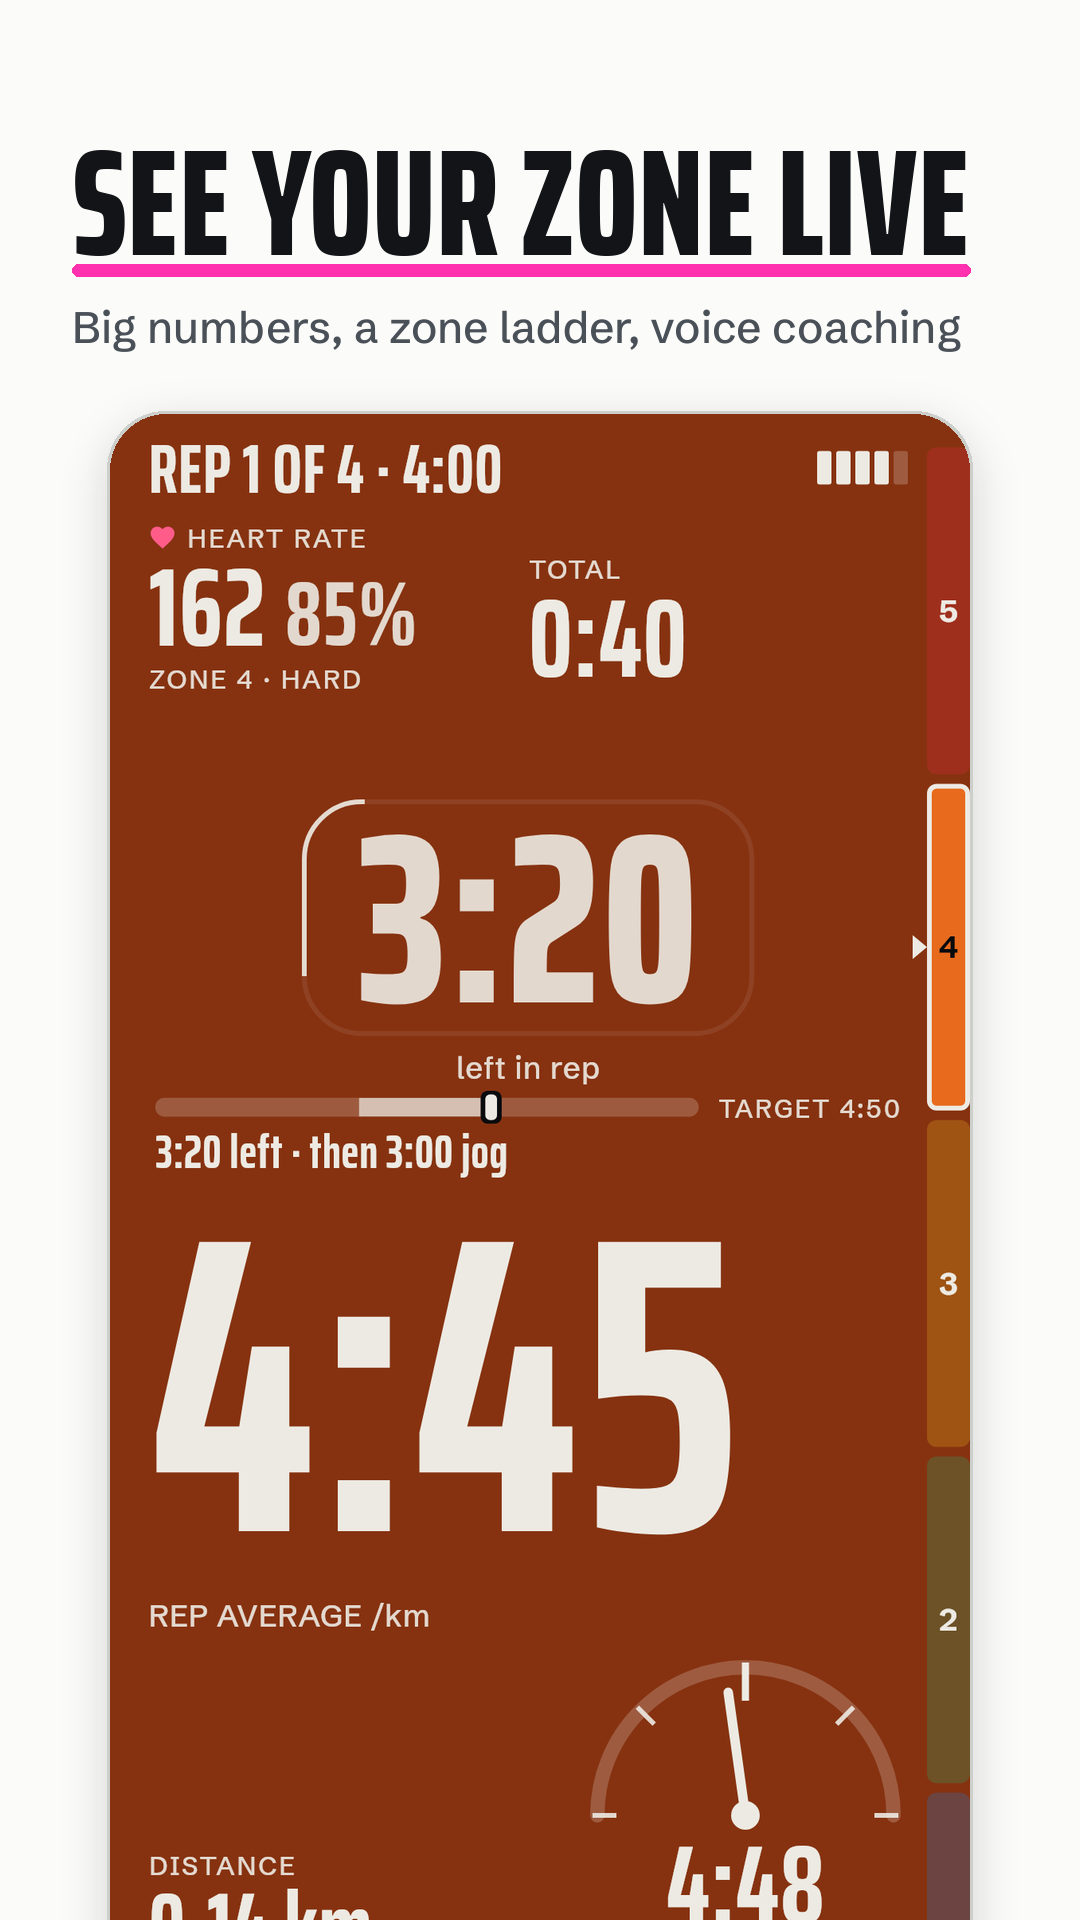
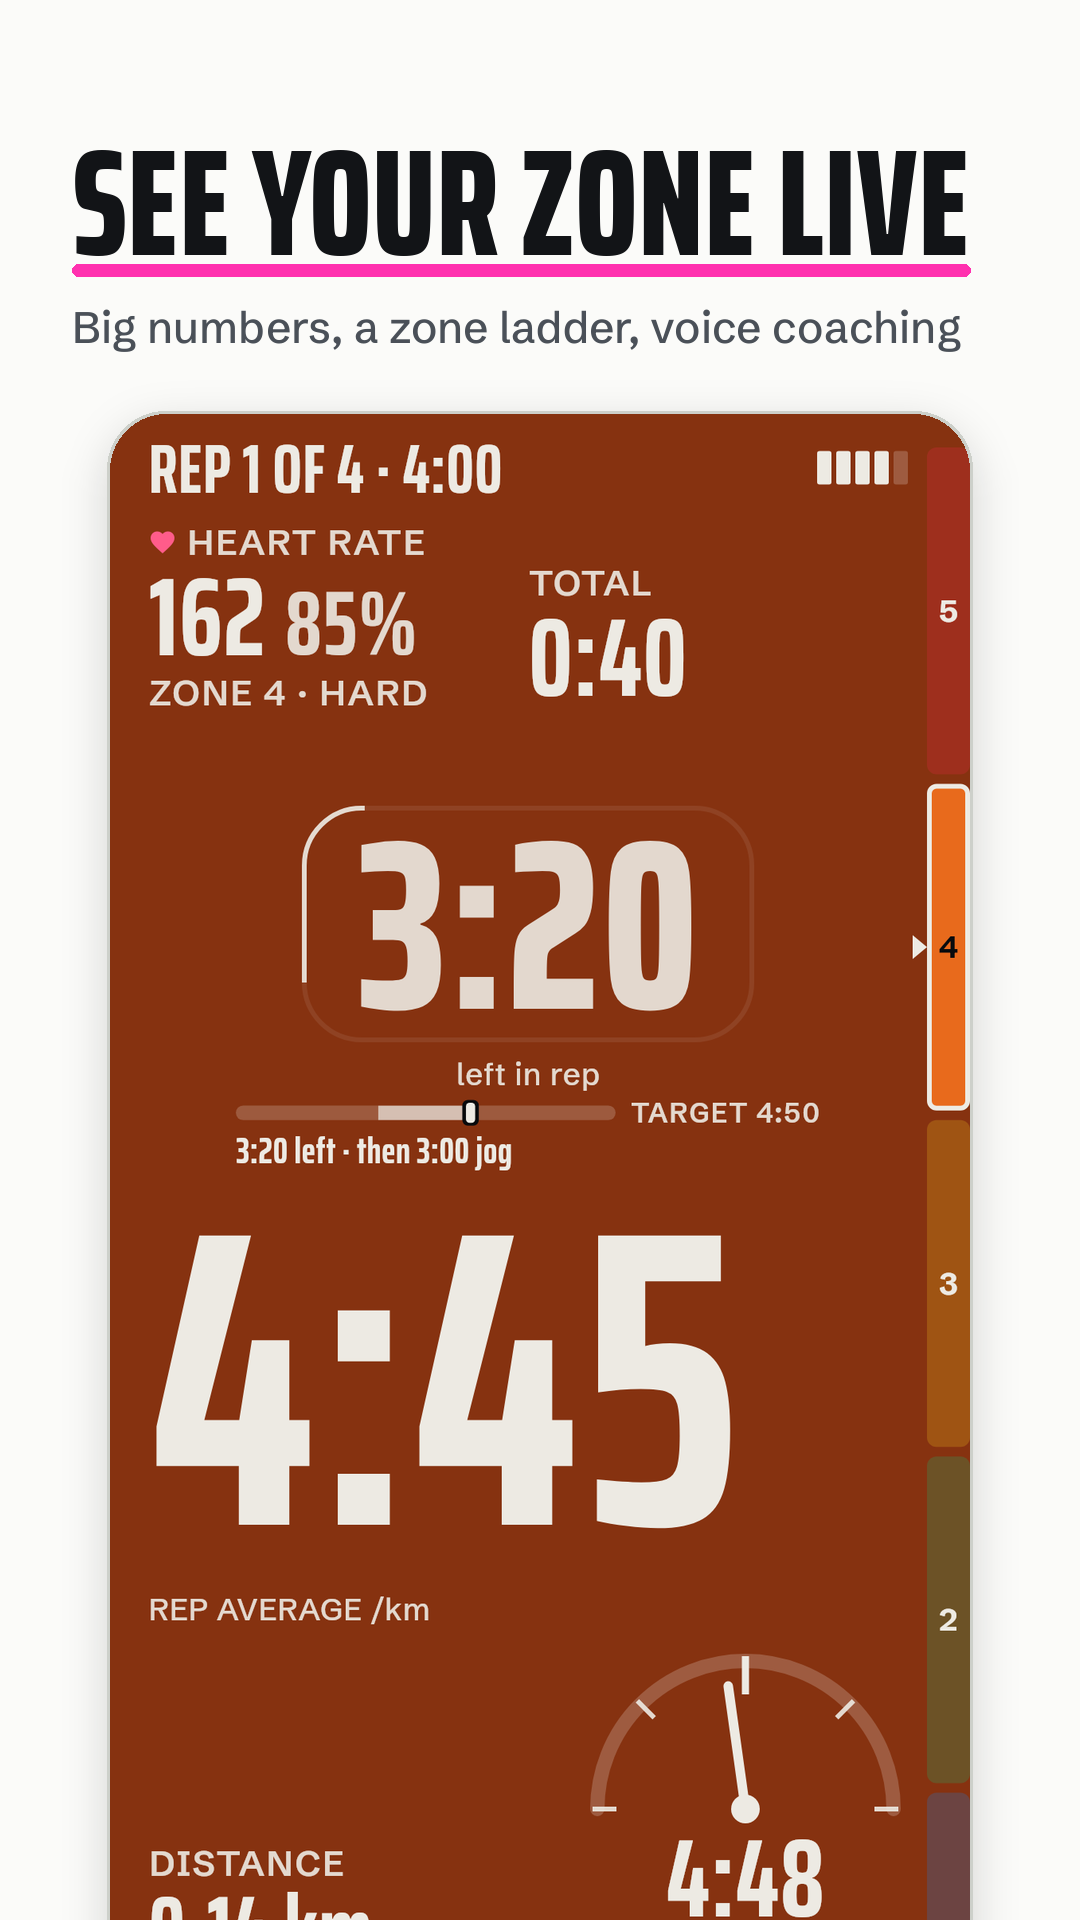
Rebrand: Play flavour applicationId app.runsupreme (dogfood unchanged) (#17)
* Rebrand: Play flavour applicationId app.runsupreme (dogfood keeps app.runsolo.dogfood)

Re-applied onto main as one commit; the one-off fgs-demo job and tools are dropped (video delivered).

* Play AAB: split native debug symbols out of the bundle (155 -> ~41 MiB), versionCode 2

tools/split_native_symbols.py lifts BUNDLE-METADATA debug symbols into native-debug-symbols.zip for the Console and re-signs the AAB with the upload key. Tested on the 8-Oct AAB with a throwaway key.

* Version constant to 0.1.0+2 (kept equal to pubspec)

* topo-surface workflow: package app.runsupreme.debug

* Store shots: refresh 02 from current goldens, 06 becomes the trail run screen (BACK TO START, VS START)

* Version 0.1.0+3 for the next Play AAB (versionCode 3)

---------

diff --git a/test/topo/pack_manager_test.dart b/test/topo/pack_manager_test.dart
@@ -59,7 +59,7 @@ void main() {
     await m.download('milos');
     expect(server.userAgents, isNotEmpty);
     expect(
-      server.userAgents.every((u) => u == 'RunSupreme/0.1.0+1 (Android)'),
+      server.userAgents.every((u) => u == 'RunSupreme/0.1.0+3 (Android)'),
       isTrue,
     );
   });

diff --git a/lib/app/version.dart b/lib/app/version.dart
@@ -1,4 +1,4 @@
 /// The running app version, kept equal to `pubspec.yaml` `version:` by
 /// `test/app_version_test.dart` (no package_info dependency). The Lap Draw
 /// intro plays in full once per version (plan §4, D8).
-const String kAppVersion = '0.1.0+1';
+const String kAppVersion = '0.1.0+3';

diff --git a/tools/split_native_symbols.py b/tools/split_native_symbols.py
@@ -1,0 +1,60 @@
+#!/usr/bin/env python3
+"""Split the native debug symbols out of a signed Play AAB and re-sign it.
+
+ndk.debugSymbolLevel = FULL puts ~109 MiB of .dbg files in BUNDLE-METADATA, 70% of the 155 MiB
+0.1.0 bundle. Play never ships them to devices, but they bloat the upload. Play also accepts the
+same files as a separate "native debug symbols" zip (layout <abi>/<lib>.so.dbg), so: collect them
+into that zip, drop them from the bundle, strip the old signature and sign again with the upload key.
+
+Usage: split_native_symbols.py <aab> <out-symbols.zip>   (the AAB is rewritten in place)
+Env (as in the release-aab job): RUN_SOLO_UPLOAD_KEYSTORE, RUN_SOLO_UPLOAD_STORE_PASSWORD,
+RUN_SOLO_UPLOAD_KEY_PASSWORD, RUN_SOLO_UPLOAD_KEY_ALIAS (default "upload").
+"""
+import os
+import subprocess
+import sys
+import zipfile
+
+PREFIX = 'BUNDLE-METADATA/com.android.tools.build.debugsymbols/'
+SIGNATURE_EXT = ('.SF', '.RSA', '.DSA', '.EC')
+
+
+def is_signature(name):
+    return name == 'META-INF/MANIFEST.MF' or (name.startswith('META-INF/') and name.endswith(SIGNATURE_EXT))
+
+
+def main(aab, out_zip):
+    before = os.path.getsize(aab)
+    tmp = aab + '.tmp'
+    n_sym = 0
+    with zipfile.ZipFile(aab) as src, \
+            zipfile.ZipFile(tmp, 'w', zipfile.ZIP_DEFLATED) as dst, \
+            zipfile.ZipFile(out_zip, 'w', zipfile.ZIP_DEFLATED) as sym:
+        for info in src.infolist():
+            name = info.filename
+            if name.startswith(PREFIX):
+                if not name.endswith('/'):
+                    sym.writestr(name[len(PREFIX):], src.read(info))
+                    n_sym += 1
+            elif is_signature(name):
+                continue
+            else:
+                dst.writestr(info, src.read(info), compress_type=info.compress_type)
+    if n_sym == 0:
+        os.remove(tmp)
+        sys.exit(f'no native debug symbols in {aab}')
+    os.replace(tmp, aab)
+    subprocess.run([
+        'jarsigner', '-keystore', os.environ['RUN_SOLO_UPLOAD_KEYSTORE'],
+        '-storepass:env', 'RUN_SOLO_UPLOAD_STORE_PASSWORD',
+        '-keypass:env', 'RUN_SOLO_UPLOAD_KEY_PASSWORD',
+        aab, os.environ.get('RUN_SOLO_UPLOAD_KEY_ALIAS', 'upload'),
+    ], check=True, stdout=subprocess.DEVNULL)
+    print(f'AAB {before} -> {os.path.getsize(aab)} bytes; '
+          f'{n_sym} symbol files -> {out_zip} ({os.path.getsize(out_zip)} bytes)')
+
+
+if __name__ == '__main__':
+    if len(sys.argv) != 3:
+        sys.exit(__doc__)
+    main(sys.argv[1], sys.argv[2])

diff --git a/store/play/build_screens.py b/store/play/build_screens.py
@@ -40,9 +40,11 @@ SHOTS = [
     ("03-verdict", "verdict_faster", "AN HONEST VERDICT", "Faster, holding or slower, and why", MID),
     ("04-plan", "plan_plan_360x800", "A 4-WEEK PLAN", "Built around your scores, week by week", LONG),
     ("05-zone-charts", "detail_chart_4x4_360x640", "WHERE THE EFFORT WENT", "Reps, splits and time in zone, by colour", AEROBIC),
-    ("06-offline-maps", "offline_maps_list", "TOPO MAPS, NO SIGNAL", "Download a region, run with no data", SPEED),
+    ("06-trail-run", "record_trail_retracing_360x640", "RUN THE TRAILS", "Climb, grade, height vs start, back to start", SPEED),
     ("07-start", "start_session_400s_360x800", "PICK YOUR SESSION", "Free, trail, intervals, laps, goals, tests", MID),
     ("08-history", "history_weeks_360x800", "SEE EVERY RUN", "By week, with pace and zone colours", LONG),
+    # Spare, not uploaded (the Play listing takes 01-08): the old Topo shot, which is only the pack manager.
+    ("09-spare-offline-maps", "offline_maps_list", "TOPO MAPS, NO SIGNAL", "Download a region, run with no data", SPEED),
 ]
 
 

diff --git a/README.md b/README.md
@@ -2,8 +2,7 @@
 
 Formerly Run Solo: the Kotlin packages (`app.runsolo.*`), secret names (`RUN_SOLO_*`), keystore
 certificate CNs and the `~/.secrets/run-solo/` folder keep the old name on purpose; the visible
-brand and the store listing changed. The applicationId is still `app.runsolo` until the separate
-rebrand PR moves it to `app.runsupreme` (before the first Play upload).
+brand and the store listing changed. The Play flavour applicationId is `app.runsupreme`; the dogfood flavour keeps `app.runsolo.dogfood`.
 
 **Run Supreme: 4x4 Interval Run.** Free Android app: record a run, get a staged 4x4 verdict. No
 accounts, no ads, no analytics of our own; runs stay on the phone unless you choose to send them (Send button, or services you switch on in Settings; all off by default), the post-run map comes from
@@ -17,7 +16,7 @@ Google Maps, weather from Open-Meteo and place names from the phone's own geocod
 | `lib/` | Flutter app. `theme/` = Night Session tokens, motion, type; `screens/`; `platform/` = Pigeon channel contract (generated `*.g.dart` committed) |
 | `pigeons/platform_api.dart` | Source of truth for `RecorderApi` / `BleApi` / `RecorderEvents` (plan §2). Regenerate: `dart run pigeon --input pigeons/platform_api.dart` |
 | `packages/run_engine/` | Pure-Dart analysis engine (laps, trimming, metrics, staged verdict, plans schedule). The only place verdict logic lives. `dart test` here |
-| `android/app/` | Android shell (Kotlin, package `app.runsolo`). minSdk 29, target/compileSdk 36. Debug builds are `app.runsolo.debug` |
+| `android/app/` | Android shell (Kotlin, package `app.runsolo`). minSdk 29, target/compileSdk 36. Debug builds are `app.runsupreme.debug` |
 | `android/core-jvm/` | Pure Kotlin/JVM module (journal codec, lap state machine, haversine, HR parse, cue scheduler). Standalone Gradle build, no Android plugin, included into the app via `includeBuild` |
 | `assets/fonts/` | Saira Extra Condensed 500/700/800 + Schibsted Grotesk variable, bundled (SIL OFL 1.1, licences beside them). Nothing is fetched at runtime |
 | `tools/` | `check_16kb_alignment.sh` (16 KB page-size gate), `emulator_*.sh`, `print_cert_sha1.sh` (SHA-1s for the Maps key restriction) |
@@ -50,7 +49,7 @@ adb install -r ~/Downloads/run-solo/app-debug.apk                       # or cop
 
 Or on GitHub: Actions → the run → Artifacts → `run-solo-debug-apk` (zip) → unzip → copy
 `app-debug.apk` to the phone → open it (allow "install unknown apps" for the file manager once).
-The debug package is `app.runsolo.debug`, so it installs beside a Play build.
+The debug package is `app.runsupreme.debug`, so it installs beside a Play build.
 
 ## Working on the host (aarch64, shared, low RAM)
 
@@ -65,7 +64,7 @@ The debug APK is ~160 MB, JIT and unsigned-for-purpose: fine for the emulator, u
 battery or smoothness. For phone testing download **`run-solo-dogfood-apk`** instead:
 
 - release-mode AOT Dart, R8 + resource shrinking, `--obfuscate --split-debug-info`, arm64-v8a only, target under 36 MiB (30 until the offline Topo map engine, maplibre_gl, added ~12.7 MiB) (CI fails above it and prints the size in the job summary)
-- applicationId **`app.runsolo.dogfood`**, so it installs beside `app.runsolo.debug` and a future Play build; plain `app.runsolo` is reserved for Play-signed builds
+- applicationId **`app.runsolo.dogfood`**, so it installs beside `app.runsupreme.debug` and the Play build (`app.runsupreme`)
 - replay mode and the debug intents stay available (`BuildConfig.REPLAY_ENABLED`), same as debug
 - signed with the CI dogfood key (`CN=Run Solo dogfood`). Secrets: `RUN_SOLO_DOGFOOD_KEYSTORE_BASE64`, `RUN_SOLO_DOGFOOD_STORE_PASSWORD`, `RUN_SOLO_DOGFOOD_KEY_PASSWORD`; offline copy in `~/.secrets/run-solo/` on the dev host (never committed). Reinstalling over an older dogfood build works as long as this key is unchanged.
 

diff --git a/docs/play-console.md b/docs/play-console.md
@@ -10,7 +10,7 @@ Founder approves the wording (plan §18.9 item 8) before anything is typed into 
 
 | Item | Value | Status |
 |---|---|---|
-| Package name | `app.runsolo` (Play build only; `.debug` and `.dogfood` never go to Play) | fixed |
+| Package name | `app.runsupreme` (Play build only; `.debug` and `.dogfood` never go to Play) | fixed |
 | Privacy policy URL | `https://runsupreme.taiaroa.xyz/privacy/` (Vercel project `run-supreme-site`, copy at `~/sites/run-supreme`; repo is private so Pages is not used) | done 7-Oct |
 | Play App Signing | Enrol at first upload; Google holds the app-signing key, we upload with `CN=Run Solo upload` | first AAB upload |
 | Upload key SHA-1 | `6D:E0:ED:82:5F:B7:80:73:3A:C5:EC:9D:37:5F:8F:63:1F:6E:D0:57` | for the Maps key restriction |
@@ -179,7 +179,7 @@ All **No**.
 
 ## 11. Testing track order (plan §11)
 
-1. Internal testing: founder + a couple of devices from week 3 (Play-signed builds replace sideloaded `app.runsolo` release builds; dogfood `.dogfood` package stays).
+1. Internal testing: founder + a couple of devices from week 3 (Play-signed builds replace sideloaded Play-flavour release builds; dogfood `.dogfood` package stays).
 2. Closed testing (Alpha): create the track, add the tester email list (≥ 15 recruited, ≥ 12 must stay opted in 14 continuous days, Google checks usage), submit for review with all the forms above done. See `docs/closed-test-testers.md`.
 3. Production access questionnaire after the 14 days (week 7), then staged rollout 20% → 100%.
 
@@ -187,10 +187,10 @@ All **No**.
 
 1. Google Cloud project → enable **Maps SDK for Android** → billing account attached → budget alert at US$1 → per-day quota cap on the key (W9).
 2. Create the API key. Application restriction: **Android apps**, entries for each package + SHA-1:
-   - `app.runsolo` + upload key SHA-1 above
-   - `app.runsolo` + **Play app-signing certificate SHA-1** (Play Console → Test and release → Setup → App signing, available after the first upload) — without this the Play build shows "Map failed to load"
+   - `app.runsupreme` + upload key SHA-1 above
+   - `app.runsupreme` + **Play app-signing certificate SHA-1** (Play Console → Test and release → Setup → App signing, available after the first upload) — without this the Play build shows "Map failed to load"
    - `app.runsolo.dogfood` + dogfood key SHA-1 (`tools/print_cert_sha1.sh ~/.secrets/run-solo/<dogfood>.jks dogfood`)
-   - `app.runsolo.debug` + your local `~/.android/debug.keystore` SHA-1 (CI's debug APK uses a per-runner debug key, so the emulator smoke never shows a map; that is expected)
+   - `app.runsupreme.debug` + your local `~/.android/debug.keystore` SHA-1 (CI's debug APK uses a per-runner debug key, so the emulator smoke never shows a map; that is expected)
    API restriction: **Maps SDK for Android** only.
 3. Add it as repo secret `RUN_SOLO_MAPS_API_KEY` (`gh secret set RUN_SOLO_MAPS_API_KEY -R ricki2828/run-solo`). Builds pass without it; with it, `build-apk` stops warning.
 4. Locally: `runsolo.mapsApiKey=...` in `android/local.properties` (gitignored) for `flutter run`.

diff --git a/docs/closed-test-testers.md b/docs/closed-test-testers.md
@@ -16,7 +16,7 @@ brands (≥ 1 Samsung, ≥ 1 Xiaomi/Oppo, the rest Pixel or anything). The 14 da
    run → artifact `run-solo-play-aab-<tag>`), release notes below, review and roll out. Play App
    Signing is enrolled at this first upload; then copy the **app-signing certificate SHA-1** into
    the Maps API key restriction (`docs/play-console.md` §12) or every tester sees "Map failed to load".
-4. Copy the **opt-in link** from the Testers tab (`https://play.google.com/apps/testing/app.runsolo`)
+4. Copy the **opt-in link** from the Testers tab (`https://play.google.com/apps/testing/app.runsupreme`)
    into the message below.
 5. Track the roster in a sheet: name, email, device, opted-in date, last-heard-from. The clock
    starts when the 12th person is in; note that date.
@@ -31,7 +31,7 @@ Release notes (first closed release):
 >
 > **To get it (two steps, both needed):**
 > 1. Open this link on your phone, signed in to the Google account your Play Store uses, and tap **Become a tester**: `<opt-in link>`
-> 2. Then install it from Play: `https://play.google.com/store/apps/details?id=app.runsolo` (the link on the opt-in page goes to the same place).
+> 2. Then install it from Play: `https://play.google.com/store/apps/details?id=app.runsupreme` (the link on the opt-in page goes to the same place).
 >
 > Google needs you to stay opted in and actually open the app now and then for 14 days, so please do not uninstall it before I say the test is done, even if you only run once a week.
 >

diff --git a/docs/fgs-demo-video.md b/docs/fgs-demo-video.md
@@ -7,7 +7,7 @@ a visible notification, and a clear way to stop. Keep it under 60 seconds, no na
 needed, captions optional.
 
 Recorded from the founder's **real run** (the Tuesday or Saturday 4x4 in week 4) on the Pixel
-with the Play internal-track build (`app.runsolo`), not the dogfood package. Do the dry run
+with the Play internal-track build (`app.runsupreme`), not the dogfood package. Do the dry run
 first at the desk with **replay mode** on the dogfood build so the shot order is rehearsed and
 the screen recorder settings are right; the replay footage is not what gets uploaded.
 
@@ -76,7 +76,7 @@ the link into the FGS form. The longer 4x4 shot list below is the fuller option.
 
 ## Acceptance
 
-- [ ] Real run, Play-signed build, `app.runsolo` visible in Settings → Apps if asked.
+- [ ] Real run, Play-signed build, `app.runsupreme` visible in Settings → Apps if asked.
 - [ ] Start → notification → background → screen off → lock-screen LAP → Stop → notification gone, all in one recording.
 - [ ] Under 60 s in the edit, clock continuous across cuts, touches visible.
 - [ ] Unlisted YouTube link opens in a private browser window.
